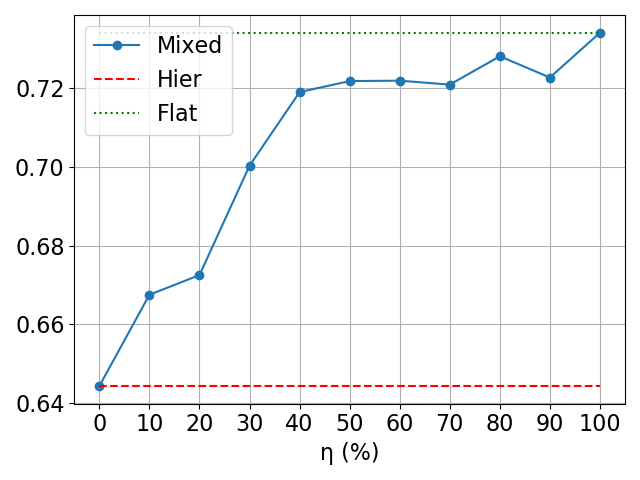
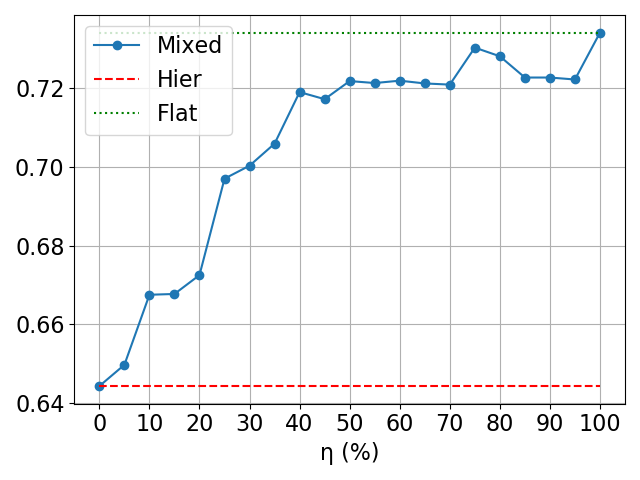
PLOTS 10-10

diff --git a/Stats/bacc_difference.py b/Stats/bacc_difference.py
@@ -1,11 +1,11 @@
 import matplotlib.pyplot as plt
 import numpy as np
 
-y = [0, 143, 201, 247, 293, 333, 373, 422, 482, 549, 892]
-bacc = [0.6443, 0.6675, 0.6725, 0.7003, 0.7190, 0.7218, 0.7219, 0.7209, 0.7281, 0.7227, 0.7341]
-wbacc = [0.7433, 0.7556, 0.7612, 0.7668, 0.7720, 0.7668, 0.7612, 0.7601, 0.7545, 0.7489, 0.7478]
+y = [0, 99, 143, 176, 201, 224, 247, 267, 293, 312, 333, 349, 373, 392, 422, 445, 482, 515, 549, 589, 892]
+bacc = [0.6443, 0.6497, 0.6675, 0.6677, 0.6725, 0.6970, 0.7003, 0.7059, 0.7190, 0.7172, 0.7218, 0.7213, 0.7219, 0.7212, 0.7209, 0.7303, 0.7281, 0.7227, 0.7227, 0.7222, 0.7341]
+wbacc = [0.7433, 0.7500, 0.7556, 0.7567, 0.7612, 0.7668, 0.7668, 0.7691, 0.7720, 0.7668, 0.7668, 0.7646, 0.7612, 0.7601, 0.7601, 0.7590, 0.7545, 0.7489, 0.7489, 0.7466, 0.7478]
 
-x = [w for w in range(0, 105, 10)]
+x = [w for w in range(0, 105, 5)]
 print(x)
 
 plt.plot(x, y, marker='o')
@@ -17,9 +17,9 @@ plt.grid()
 plt.show()
 
 plt.plot(x, bacc, marker='o', label='Mixed')
-hier = [0.6443]*11
+hier = [0.6443]*21
 plt.plot(x, hier, 'r--', marker='', label='Hier')
-flat = [0.7341]*11
+flat = [0.7341]*21
 plt.plot(x, flat, 'g:', label='Flat')
 #plt.ylabel('BACC.', fontsize=16)
 plt.xlabel('η (%)', fontsize=16)
@@ -32,9 +32,9 @@ plt.show()
 
 
 plt.plot(x, wbacc, marker='o', label='Mixed')
-hier = [0.7433]*11
+hier = [0.7433]*21
 plt.plot(x, hier, 'r--', marker='', label='Hier')
-flat = [0.7478]*11
+flat = [0.7478]*21
 plt.plot(x, flat, 'g:', label='Flat')
 #plt.ylabel(fontsize=16)
 plt.xlabel('η (%)', fontsize=16)

diff --git a/Stats/metrics.py b/Stats/metrics.py
@@ -52,7 +52,7 @@ def calculate_acc(lesion, matrix):
     return acc, se, sp, tp/(tp+fp), prec
 
 
-matrix = read_matrix("/home/ruben/PycharmProjects/SkinLesions6/Mixed/Shared/0.txt")
+matrix = read_matrix("/home/ruben/PycharmProjects/SkinLesions6/Mixed/Shared/95.txt")
 print(matrix)
 acc_total = 0.0
 se_total = 0.0

diff --git a/Mixed/mixed_eta.py b/Mixed/mixed_eta.py
@@ -164,11 +164,12 @@ x_val = import_dataset(p_val, 'validation')
 x_flat = []
 y_flat = []
 
-eta_1 = 0
-eta_2 = 0
-eta_3 = 0
-eta_4 = 0
-eta_5 = 0
+eta = 0.95
+eta_1 = eta
+eta_2 = eta
+eta_3 = eta
+eta_4 = eta
+eta_5 = eta
 
 if len (x_val) >= 1:
     y_pred = model1.predict_classes(x_val)

diff --git a/Mixed/evaluation.py b/Mixed/evaluation.py
@@ -1,10 +1,10 @@
 import pandas as pd
 import numpy
 
-ben_empty = False
+ben_empty = True
 mal_empty = False
 mel_empty = False
-flat_empty = True
+flat_empty = False
 
 if not ben_empty:
     path_ben_csv = '/home/ruben/Desktop/teste_ben_indeta.csv'
